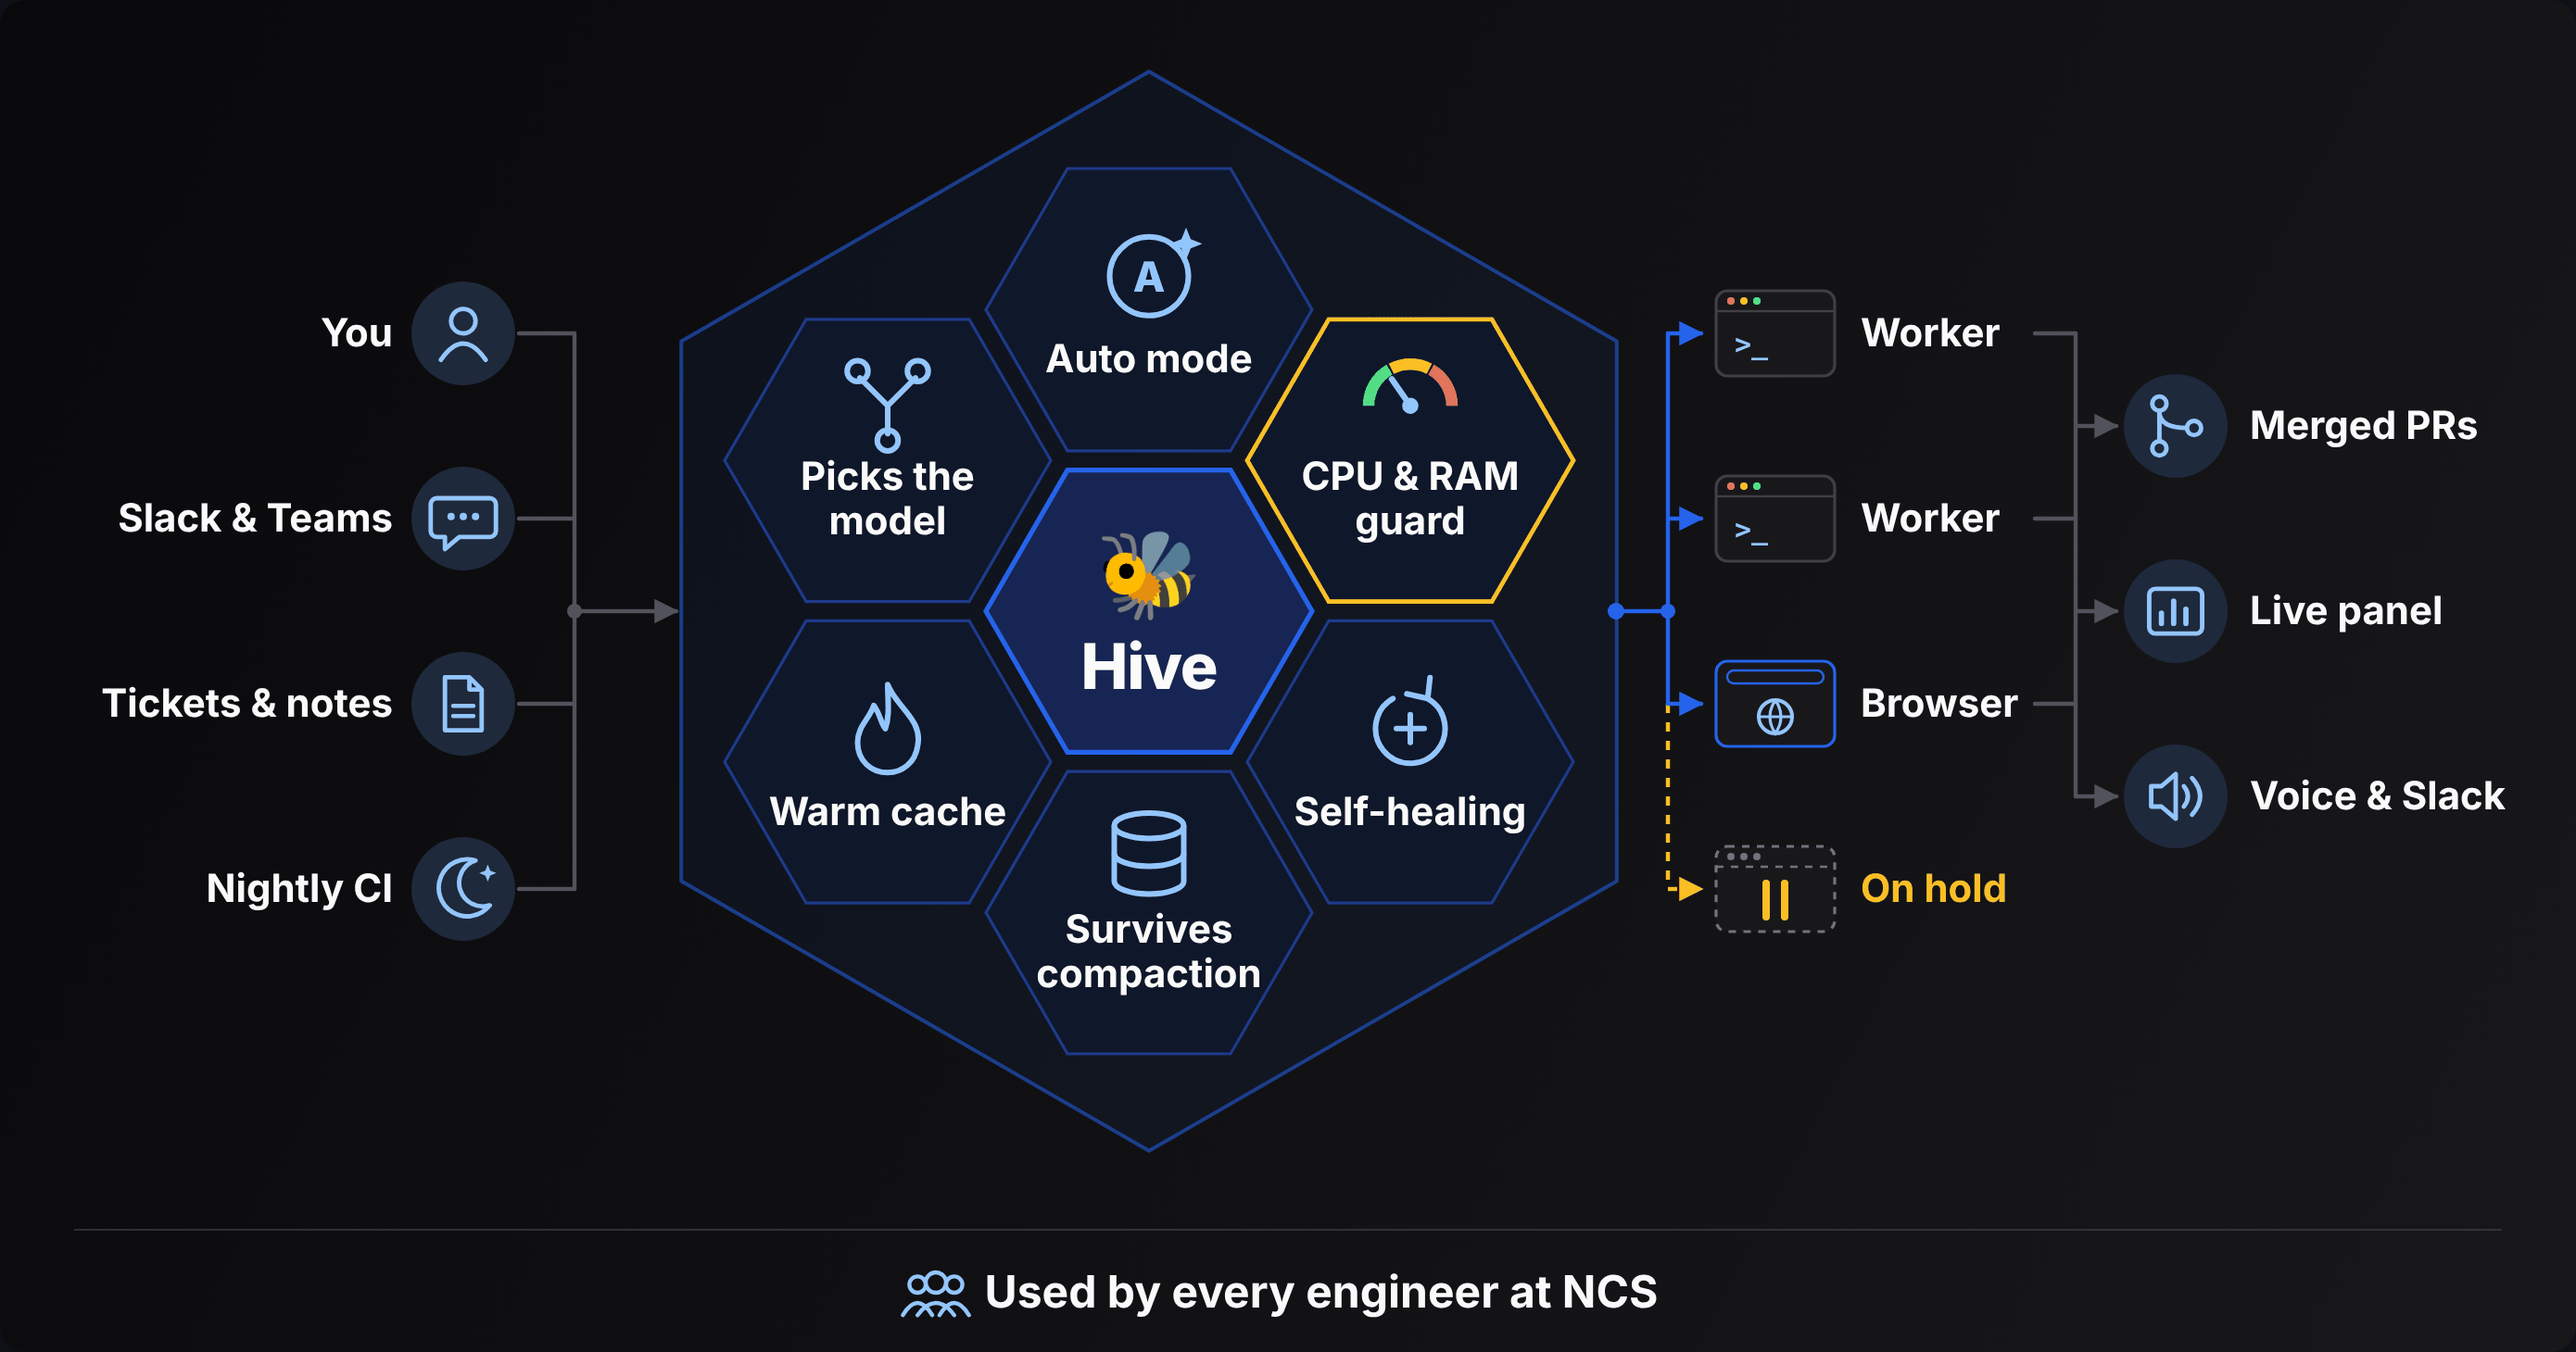
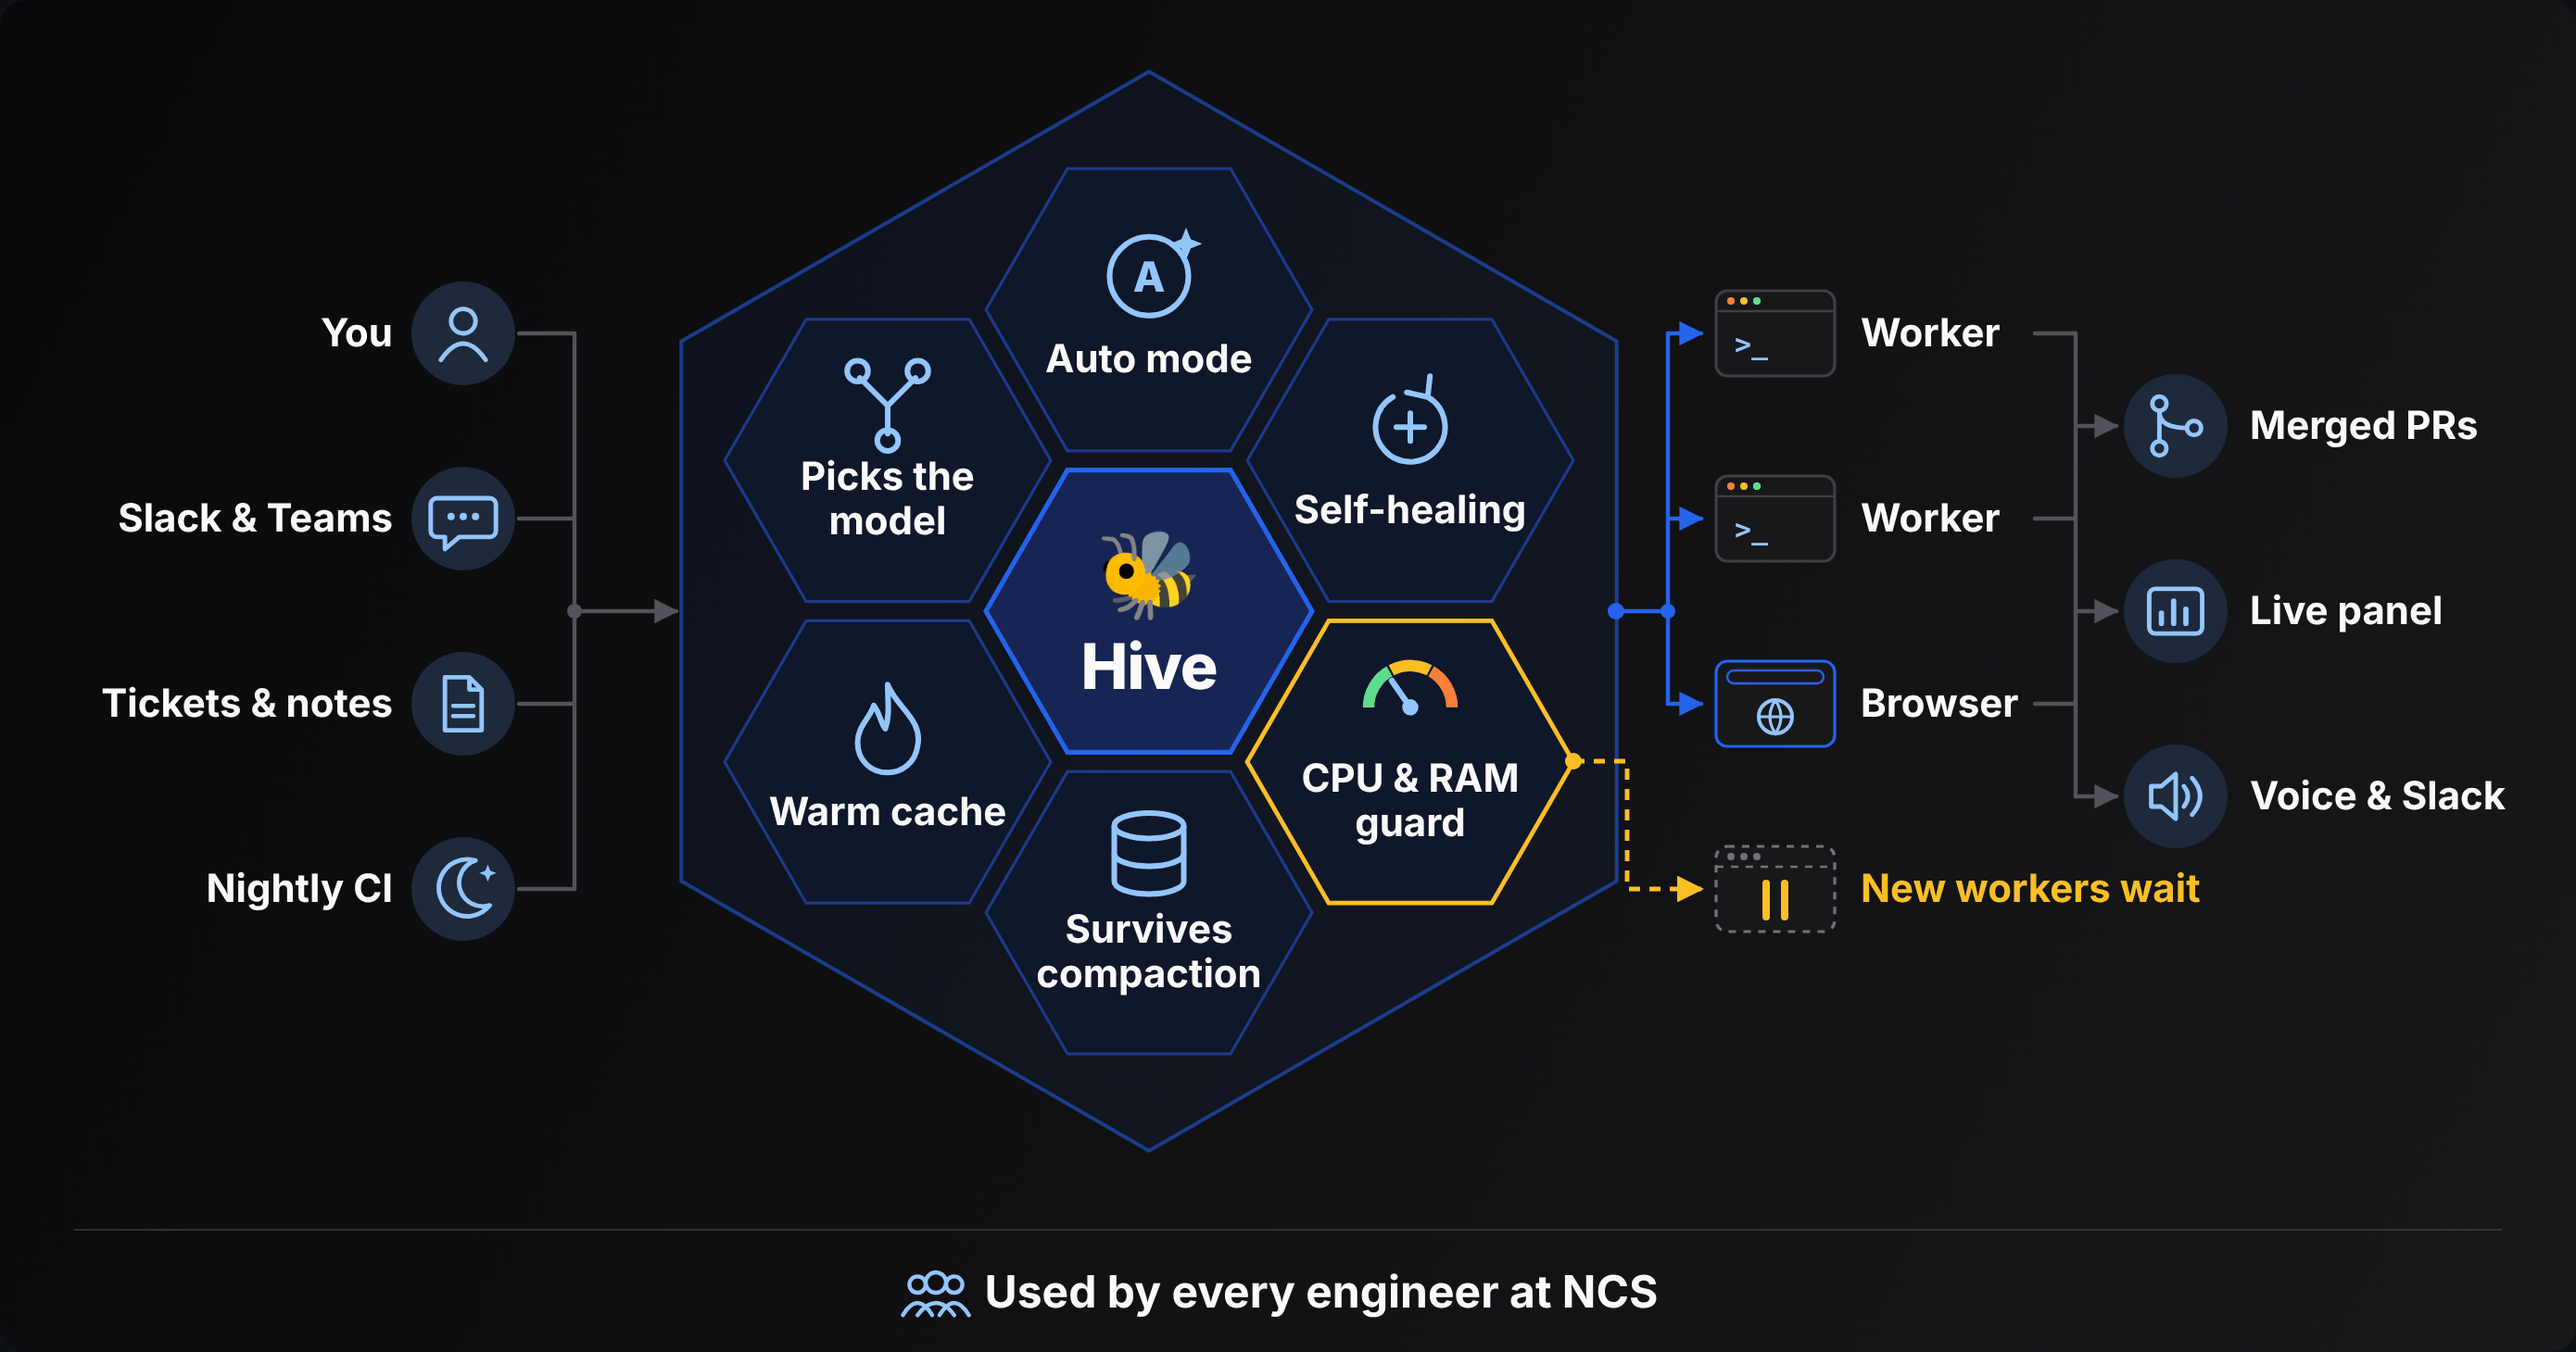
Link the CPU & RAM guard directly to waiting workers in the Hive diagram
Claude-Session: https://claude.ai/code/session_01BAgEGmXzzXPF7n4ZXVdB4B

diff --git a/README.md b/README.md
@@ -26,7 +26,7 @@ My multi-agent orchestration system for Claude Code, now used across the company
 <picture>
   <source media="(prefers-color-scheme: dark)" srcset="./assets/hive-architecture.png" />
   <source media="(prefers-color-scheme: light)" srcset="./assets/hive-architecture-light.png" />
-  <img src="./assets/hive-architecture.png" width="100%" alt="Hive: work from you, Slack and Teams, tickets and nightly CI flows into Hive, which picks the model, runs in auto mode, guards CPU and RAM, heals itself, survives compaction and keeps the prompt cache warm. It runs Claude Code workers and a browser agent, holds work when the machine is busy, and ships merged PRs, a live panel and voice and Slack updates. Used by every engineer at NCS." />
+  <img src="./assets/hive-architecture.png" width="100%" alt="Hive: work from you, Slack and Teams, tickets and nightly CI flows into Hive, which picks the model, runs in auto mode, guards CPU and RAM, heals itself, survives compaction and keeps the prompt cache warm. It runs Claude Code workers and a browser agent, makes new workers wait when CPU or RAM is tight, and ships merged PRs, a live panel and voice and Slack updates. Used by every engineer at NCS." />
 </picture>
 
 ## Also built
